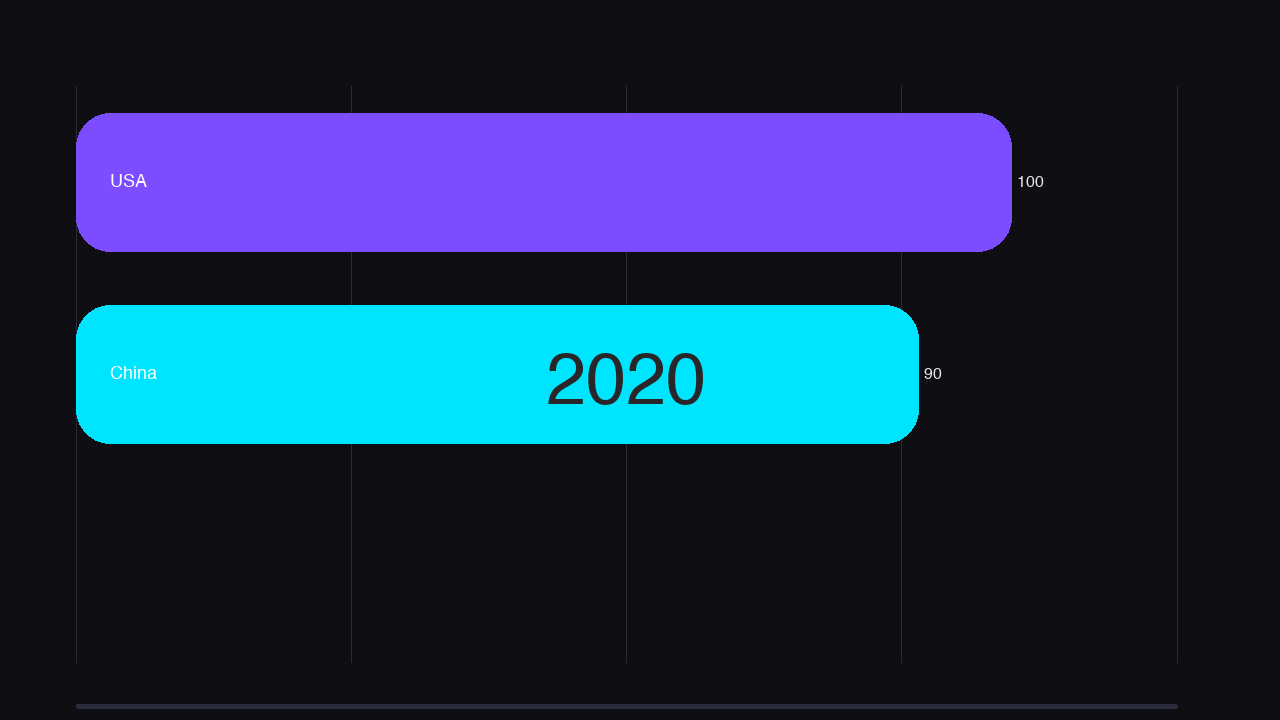
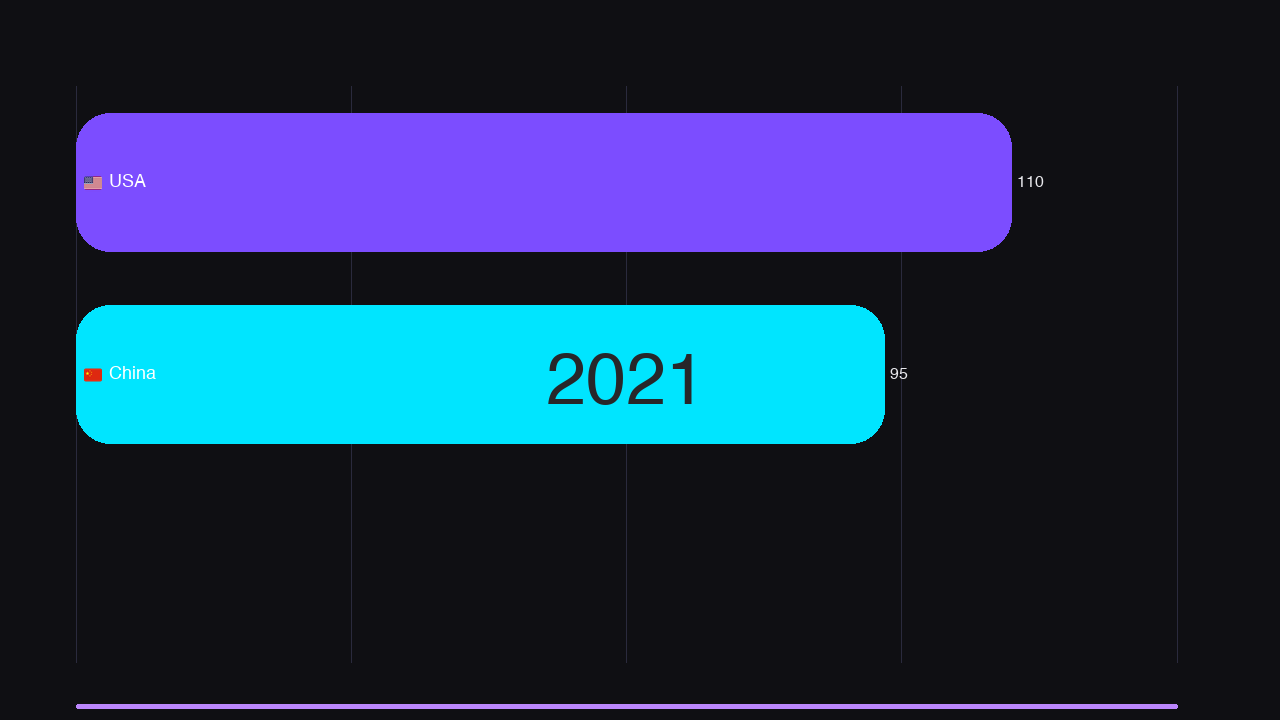
Optimize Pilmoji performance by sharing the cache across frame loops

diff --git a/viral_viz/viz/bar_race.py b/viral_viz/viz/bar_race.py
@@ -119,11 +119,19 @@ class BarChartRace:
                       int(bg_g + (wm_g - bg_g) * fade),
                       int(bg_b + (wm_b - bg_b) * fade))
 
-        for frame_num, time_idx in enumerate(indices):
-            img = Image.new('RGB', (W, H), bg_color)
-            draw = ImageDraw.Draw(img)
+        dummy_img = Image.new('RGB', (1, 1))
+        shared_pilmoji = Pilmoji(dummy_img)
 
-            row = self.df.loc[time_idx].dropna()
+        try:
+            for frame_num, time_idx in enumerate(indices):
+                img = Image.new('RGB', (W, H), bg_color)
+                draw = ImageDraw.Draw(img)
+                
+                shared_pilmoji.image = img
+                shared_pilmoji.draw = draw
+                pilmoji = shared_pilmoji
+
+                row = self.df.loc[time_idx].dropna()
             sorted_entities = row.sort_values(ascending=False)
             top_entities = sorted_entities.head(self.top_n)
 
@@ -149,42 +157,41 @@ class BarChartRace:
                 draw.line([(gx, chart_top), (gx, chart_bottom)], fill=grid_color, width=1)
 
             # ── Draw bars ────────────────────────────────────────
-            with Pilmoji(img) as pilmoji:
-                for entity in top_entities.index:
-                    val = top_entities[entity]
-                    rank_y = smooth_y[entity]
+            for entity in top_entities.index:
+                val = top_entities[entity]
+                rank_y = smooth_y[entity]
 
-                    bar_pixel_y = chart_top + int(rank_y * bar_gap) + (bar_gap - bar_h) // 2
-                    bar_pixel_w = int((val / max_val) * chart_w * 0.85)
+                bar_pixel_y = chart_top + int(rank_y * bar_gap) + (bar_gap - bar_h) // 2
+                bar_pixel_w = int((val / max_val) * chart_w * 0.85)
 
-                    x0 = chart_left
-                    y0 = bar_pixel_y
-                    x1 = chart_left + bar_pixel_w
-                    y1 = bar_pixel_y + bar_h
+                x0 = chart_left
+                y0 = bar_pixel_y
+                x1 = chart_left + bar_pixel_w
+                y1 = bar_pixel_y + bar_h
 
-                    color = self.colors.get(entity, '#888888')
-                    draw.rounded_rectangle([x0, y0, x1, y1], radius=bar_radius, fill=color)
+                color = self.colors.get(entity, '#888888')
+                draw.rounded_rectangle([x0, y0, x1, y1], radius=bar_radius, fill=color)
 
-                    # Entity label — inside bar if it fits, else outside
-                    val_text = f'{val:,.0f}'
-                    ly = y0 + (bar_h - 18) // 2
-                    vy = y0 + (bar_h - 16) // 2
+                # Entity label — inside bar if it fits, else outside
+                val_text = f'{val:,.0f}'
+                ly = y0 + (bar_h - 18) // 2
+                vy = y0 + (bar_h - 16) // 2
 
-                    emoji = ENTITY_EMOJIS.get(entity)
-                    display_text = f"{emoji} {entity}" if emoji else entity
+                emoji = ENTITY_EMOJIS.get(entity)
+                display_text = f"{emoji} {entity}" if emoji else entity
 
-                    # Pilmoji textbbox handles the emoji size perfectly
-                    label_bbox = pilmoji.getsize(display_text, font=self.font_label)
-                    label_w = label_bbox[0]
+                # Pilmoji textbbox handles the emoji size perfectly
+                label_bbox = pilmoji.getsize(display_text, font=self.font_label)
+                label_w = label_bbox[0]
 
-                    if label_w + 16 < bar_pixel_w:
-                        # Label fits inside the bar
-                        pilmoji.text((x0 + 8, ly), display_text, fill='white', font=self.font_label)
-                        draw.text((x1 + 6, vy), val_text, fill=text_color, font=self.font_value)
-                    else:
-                        # Label outside bar, then value after it
-                        pilmoji.text((x1 + 6, ly), display_text, fill=text_color, font=self.font_label)
-                        draw.text((x1 + 6 + label_w + 6, vy), val_text, fill=text_dim, font=self.font_value)
+                if label_w + 16 < bar_pixel_w:
+                    # Label fits inside the bar
+                    pilmoji.text((x0 + 8, ly), display_text, fill='white', font=self.font_label)
+                    draw.text((x1 + 6, vy), val_text, fill=text_color, font=self.font_value)
+                else:
+                    # Label outside bar, then value after it
+                    pilmoji.text((x1 + 6, ly), display_text, fill=text_color, font=self.font_label)
+                    draw.text((x1 + 6 + label_w + 6, vy), val_text, fill=text_dim, font=self.font_value)
 
             # ── Year watermark (centered) ─────────────────────────
             current_year = str(int(float(time_idx)))
@@ -217,4 +224,5 @@ class BarChartRace:
             # ── Yield as numpy array ─────────────────────────────
             yield np.asarray(img)
 
-        # No cleanup needed — no matplotlib figures to close
+        finally:
+            shared_pilmoji.close()

diff --git a/viral_viz/viz/line_race.py b/viral_viz/viz/line_race.py
@@ -142,10 +142,18 @@ class LineRaceChart:
         smooth_vals, smooth_ranks = {}, {}
         reveal_frames = 60
 
-        for frame_num, time_idx in enumerate(indices):
-            reveal_pct = min(frame_num / reveal_frames, 1.0)
-            img = Image.new('RGB', (W, H), bg_color)
-            draw = ImageDraw.Draw(img)
+        dummy_img = Image.new('RGB', (1, 1))
+        shared_pilmoji = Pilmoji(dummy_img)
+
+        try:
+            for frame_num, time_idx in enumerate(indices):
+                reveal_pct = min(frame_num / reveal_frames, 1.0)
+                img = Image.new('RGB', (W, H), bg_color)
+                draw = ImageDraw.Draw(img)
+
+                shared_pilmoji.image = img
+                shared_pilmoji.draw = draw
+                pilmoji = shared_pilmoji
 
             row = self.df.loc[time_idx].dropna()
             top_entities = row.sort_values(ascending=False).head(self.top_n).sort_values(ascending=True)
@@ -200,23 +208,22 @@ class LineRaceChart:
                     draw.line([curve[i], curve[i+1]], fill=line_color, width=2)
 
             # Labels
-            with Pilmoji(img) as pilmoji:
-                for x, y, ent, val in dot_positions:
-                    draw.ellipse([x-4, y-4, x+4, y+4], fill=line_color)
-                    vtxt = self._format_value(val)
-                    
-                    emoji = ENTITY_EMOJIS.get(ent)
-                    display_text = f"{emoji} {ent}" if emoji else ent
-                    
-                    lb = pilmoji.getsize(display_text, font=self.font_label)
-                    vb = draw.textbbox((0, 0), vtxt, font=self.font_value)
-                    
-                    bw, bh = max(lb[0], vb[2]-vb[0]) + 24, 48
-                    bx0, by0 = max(chart_left, min(x - bw//2, chart_right - bw)), y - 60
-                    draw.rounded_rectangle([bx0, by0, bx0+bw, by0+bh], radius=8, fill=(10, 10, 15), outline=(60, 60, 70), width=1)
-                    
-                    pilmoji.text((bx0 + 12, by0 + 4), display_text, fill='white', font=self.font_label)
-                    draw.text((bx0+12, by0+26), vtxt, fill='#AAA', font=self.font_value)
+            for x, y, ent, val in dot_positions:
+                draw.ellipse([x-4, y-4, x+4, y+4], fill=line_color)
+                vtxt = self._format_value(val)
+                
+                emoji = ENTITY_EMOJIS.get(ent)
+                display_text = f"{emoji} {ent}" if emoji else ent
+                
+                lb = pilmoji.getsize(display_text, font=self.font_label)
+                vb = draw.textbbox((0, 0), vtxt, font=self.font_value)
+                
+                bw, bh = max(lb[0], vb[2]-vb[0]) + 24, 48
+                bx0, by0 = max(chart_left, min(x - bw//2, chart_right - bw)), y - 60
+                draw.rounded_rectangle([bx0, by0, bx0+bw, by0+bh], radius=8, fill=(10, 10, 15), outline=(60, 60, 70), width=1)
+                
+                pilmoji.text((bx0 + 12, by0 + 4), display_text, fill='white', font=self.font_label)
+                draw.text((bx0+12, by0+26), vtxt, fill='#AAA', font=self.font_value)
 
             # Ranks
             for r in range(self.top_n):
@@ -238,3 +245,6 @@ class LineRaceChart:
             draw.rounded_rectangle([chart_left, H-16, chart_left + int(chart_w * frac), H-12], radius=2, fill=line_color)
 
             yield np.asarray(img)
+
+        finally:
+            shared_pilmoji.close()

diff --git a/test_cache.py b/test_cache.py
@@ -1,0 +1,20 @@
+from PIL import Image, ImageFont, ImageDraw
+from pilmoji import Pilmoji
+import time
+
+img1 = Image.new('RGB', (200, 100), color='black')
+font = ImageFont.truetype("/System/Library/Fonts/Helvetica.ttc", 32)
+emoji = "🇺🇸"
+
+pilmoji = Pilmoji(img1)
+
+pilmoji.text((10, 10), emoji, (255, 255, 255), font=font)
+
+img2 = Image.new('RGB', (200, 100), color='black')
+pilmoji.image = img2
+pilmoji.draw = ImageDraw.Draw(img2)
+
+pilmoji.text((10, 10), emoji, (255, 255, 255), font=font)
+
+img2.save('test_img2.png')
+print("Done")
